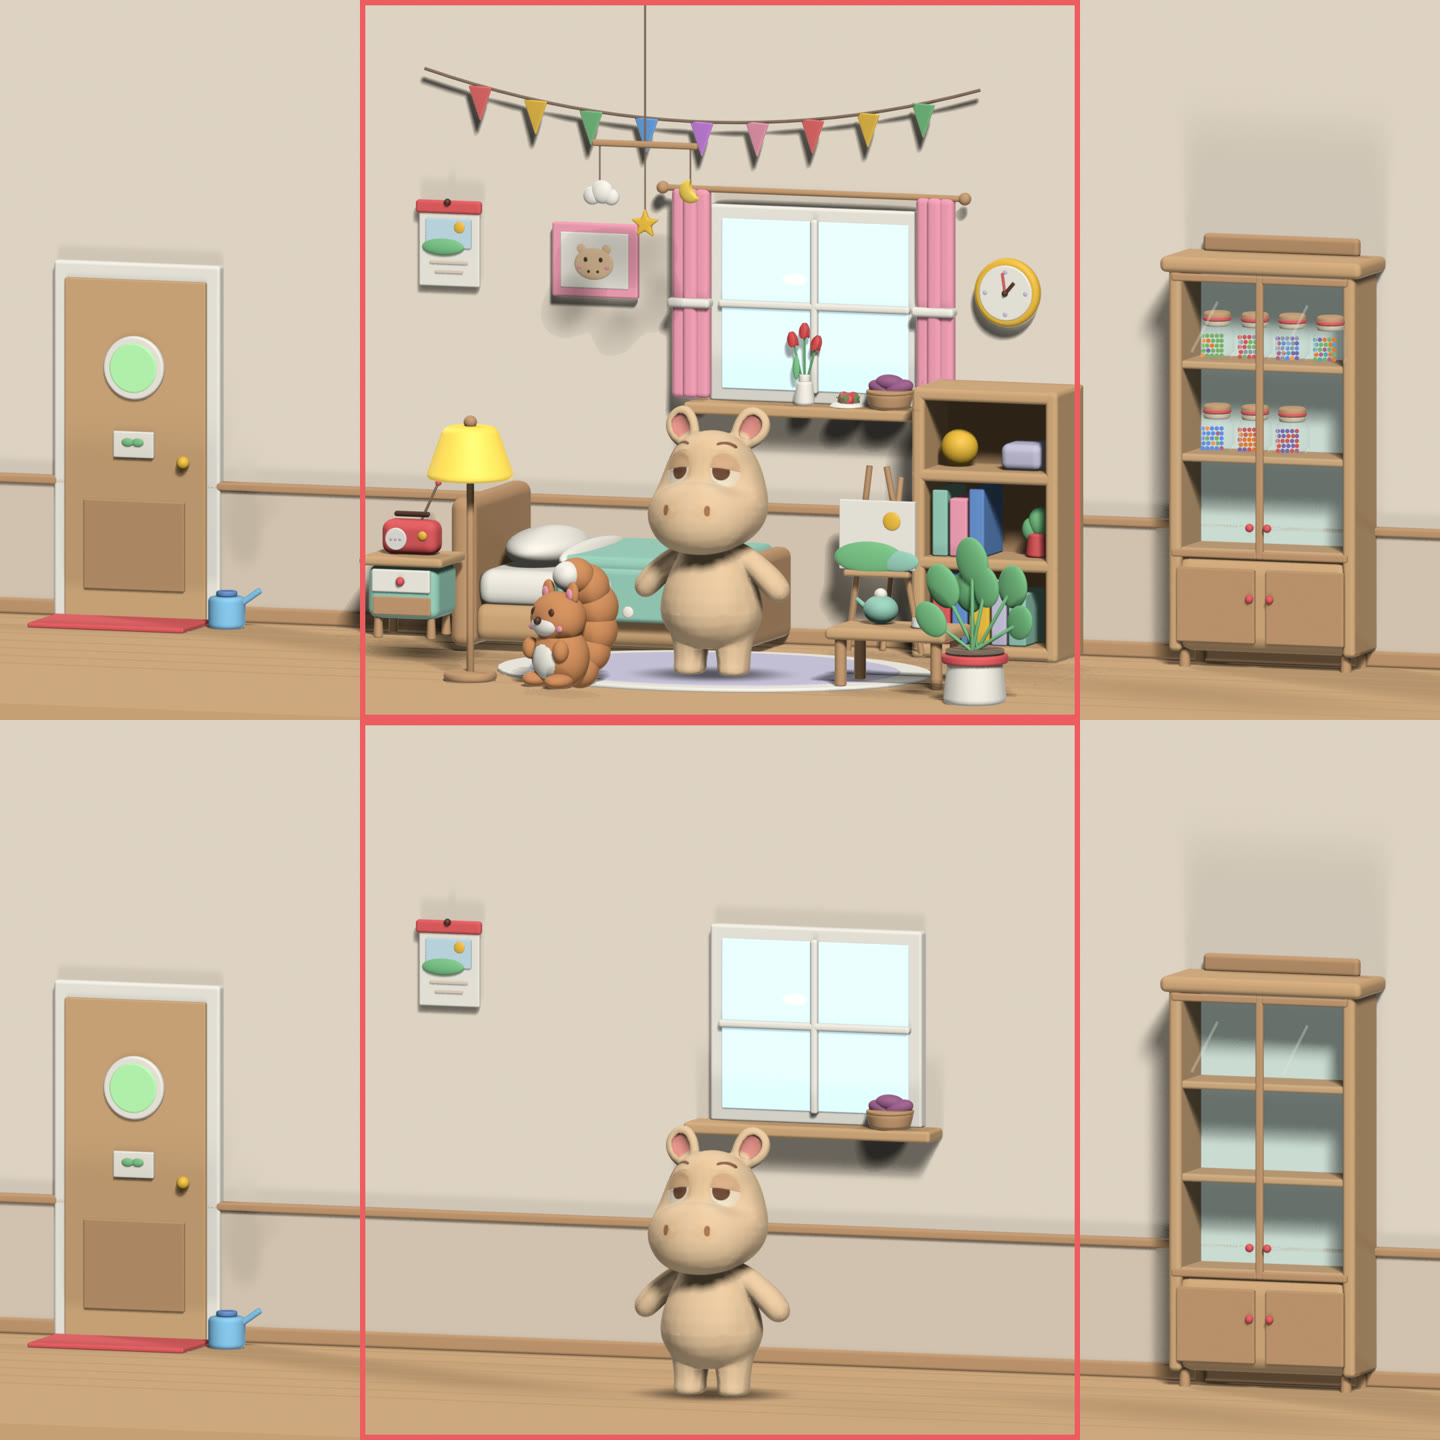
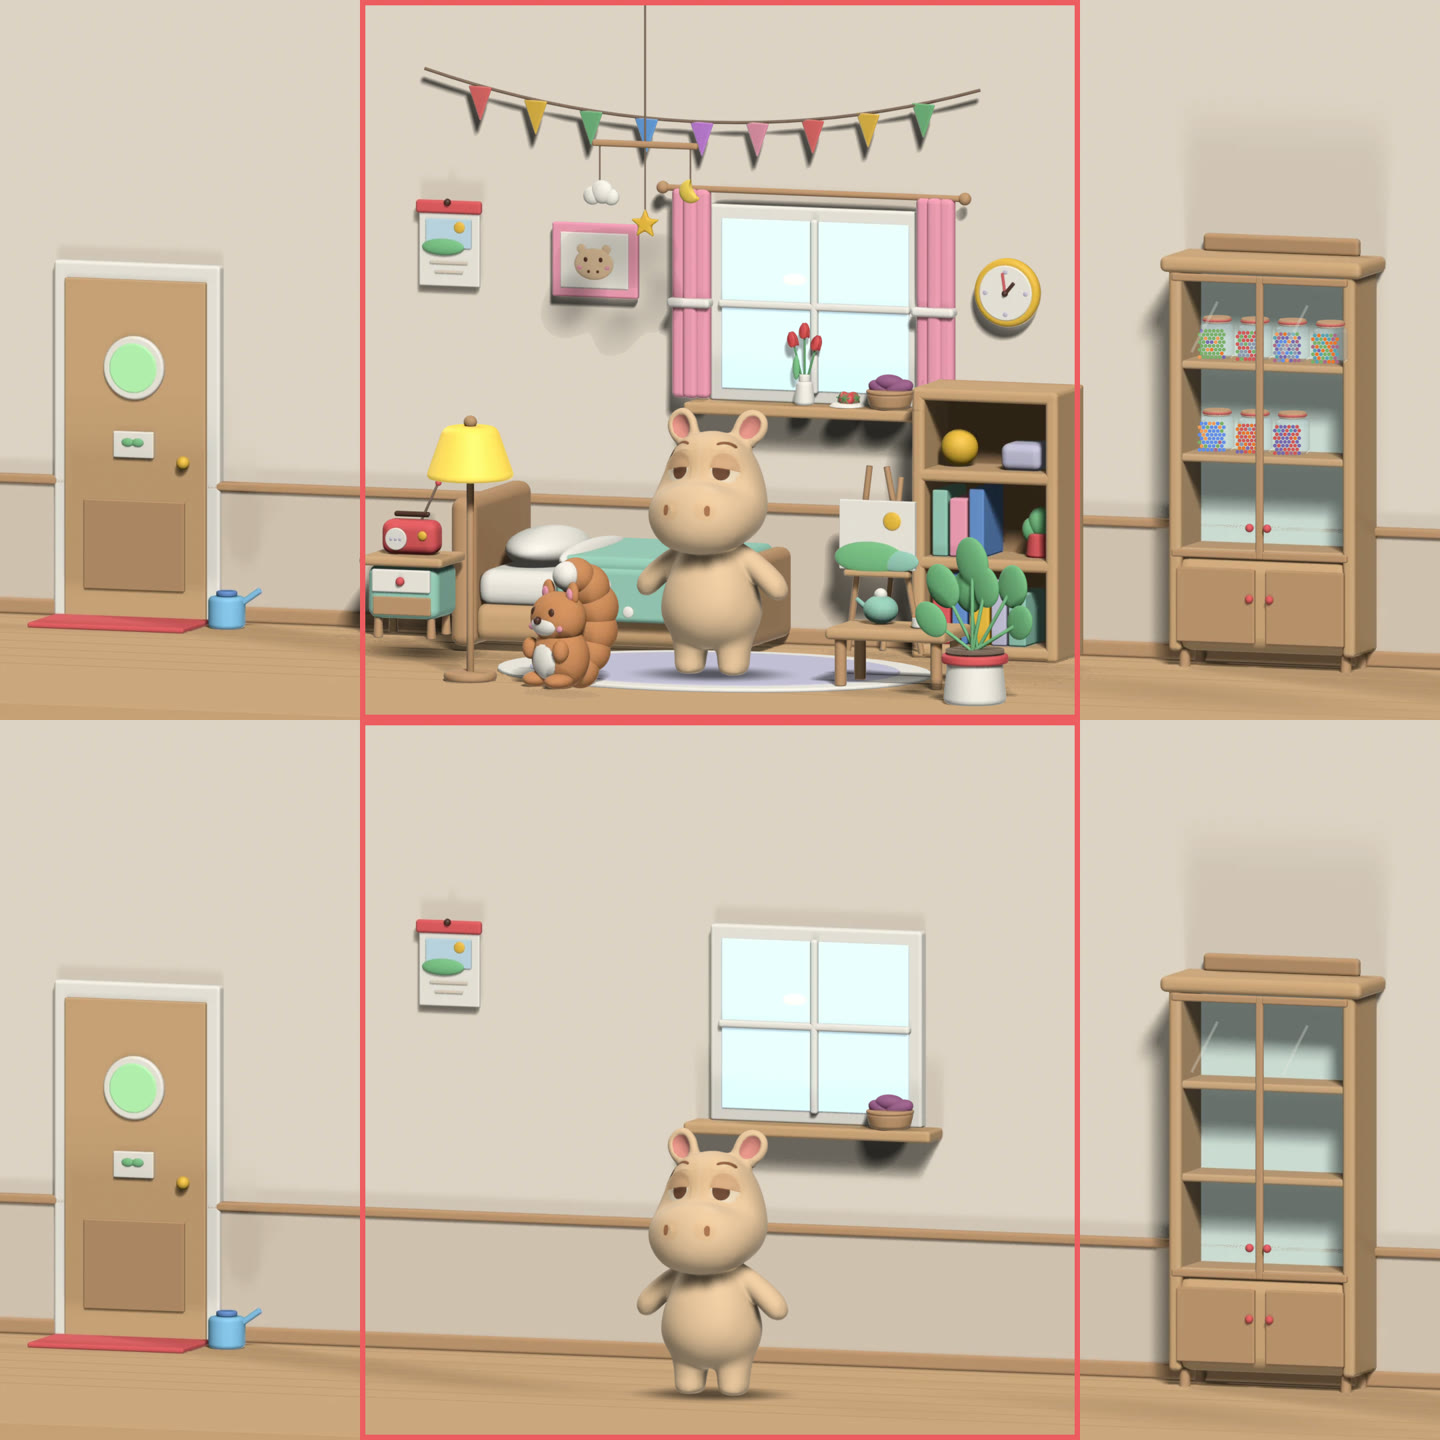
world: room cabinet jars = round jar A (J1): jar layers + slots re-exported, 7x8 marble grid

diff --git a/scripts/blender/room_wide.py b/scripts/blender/room_wide.py
@@ -41,46 +41,49 @@ def glass_mat(name, rgb, alpha):
 
 
 # ------------------------------------------------------------------ jar (닫은 유리병)
-JAR_W, JAR_H = 0.13, 0.175      # outer width, height incl. lid
-
-
-JAR_BODY_H = JAR_H - 0.045
-JAR_INNER = dict(r=JAR_W / 2 * 0.72, z0=0.012, z1=JAR_BODY_H - 0.03)   # where marbles sit (app draws them, R4)
+# 2026-11-13 J1: 유리병 탭 큰 병과 같은 물건 — design/features/jar_redesign/jar_layers.py jar_A 프로필을 축소
+# (r 0.62 / h 1.3 → s = r / 0.62): 바닥 모서리 원호 0.2, 어깨 원호 r*.26 → 목 r*.74, 받침·뚜껑·띠 bevel .45, 둘레 64.
+# 유리 알파 .32(탭과 같게). 코랄 띠만 1.5배 두께 — 방 크기(병 폭 약 50px)에서 띠가 안 보여서
+JAR_W = 0.13
+JAR_S = (JAR_W / 2) / 0.62
+JAR_BODY_H = 1.3 * JAR_S
+JAR_H = 1.505 * JAR_S             # incl. lid (lid top = h + .13 + .075)
+JAR_INNER = dict(r=JAR_W / 2 * 0.86, z0=0.06 * JAR_S, z1=(1.3 - 0.2) * JAR_S)   # marble grid area (jar_A inner), app draws marbles
+MARBLE_GRID = (7, 8)              # same as the jar tab: 50 marbles = 7 x 8 (alternate rows offset), one layer in front
 
 
 def jar(name, loc, seed=0, marbles=True, part="all"):
-    """closed jar. part: all | back (see-through glass body) | front (rim + cork lid + coral band + shine).
-    marbles = category colours (preview only; the app draws real per-jar colours between back and front)"""
+    """closed jar. part: all | back (see-through glass body) | front (rim + cork lid + coral band).
+    marbles = preview only: one front layer 7x8 like the jar tab (the app draws real per-jar colours between back and front)"""
     x, y, z = loc
-    r = JAR_W / 2
-    body_h = JAR_BODY_H
+    r = JAR_W / 2; s = JAR_S; h = JAR_BODY_H
     parts = []
     if part in ("all", "back"):
-        prof = [(0.0, 0.0), (r * 0.82, 0.0), (r, 0.03), (r, body_h - 0.035), (r * 0.78, body_h - 0.01), (r * 0.72, body_h)]
-        g = lathe(name + "Glass", prof, glass_mat("R_jarglass", P["glass"], 0.14))
+        cb, cs = 0.2 * s, r * .26
+        prof = [(0, 0)]
+        prof += [(r - cb + cb * math.sin(math.radians(a)), cb - cb * math.cos(math.radians(a))) for a in range(0, 91, 6)]
+        prof += [(r - cs + cs * math.cos(math.radians(a)), h - .04 * s - cs + cs * math.sin(math.radians(a))) for a in range(0, 91, 6)]
+        prof += [(r * .74, h)]
+        g = lathe(name + "Glass", prof, glass_mat("R_jarglass", P["glass"], 0.32), seg=64)   # same alpha as the jar tab
         g.location = (x, y, z); parts.append(g)
     if part in ("all", "front"):
-        parts += [cyl(name + "Rim", r * 0.78, 0.022, (x, y, z + body_h + 0.004), M("jar_rim", 0.6), bevel=0.35),
-                  cyl(name + "Lid", r * 0.8, 0.035, (x, y, z + body_h + 0.03), M("lid", 0.8), bevel=0.35),
-                  cyl(name + "Band", r * 0.83, 0.014, (x, y, z + body_h + 0.022), M("coral", 0.8), bevel=0.3)]
-        sh = rbox(name + "Shine", (0.008, 0.003, body_h * 0.5), (x - r * 0.55, y - r - 0.004, z + body_h * 0.55), glass_mat("R_jarshine", P["off"], 0.45), r=0.45)
-        parts.append(sh)
+        parts += [cyl(name + "Rim", r * .78, .09 * s, (x, y, z + h + .02 * s), M("jar_rim", .6), bevel=.45, seg=64),
+                  cyl(name + "Lid", r * .82, .15 * s, (x, y, z + h + .13 * s), M("lid", .8), bevel=.45, seg=64),
+                  cyl(name + "Band", r * .85, .09 * s, (x, y, z + h + .09 * s), M("coral", .8), bevel=.45, seg=64)]
     if marbles and part == "all":
         rnd = random.Random(seed)
         w = [rnd.random() ** 5 for _ in CAT_COLS]
-        mr = 0.015
-        k = 0
-        for layer in range(5):
-            zz = z + 0.012 + mr + layer * mr * 1.7
-            ring = r * 0.78 - mr
-            n = 9
+        ir = JAR_INNER; cols, rows = MARBLE_GRID
+        mr = ir["r"] * 2 / cols / 2 * 0.92
+        yf = y - r * 0.9
+        for row in range(rows):
+            off = 0.5 if row % 2 else 0
+            n = cols - 1 if row % 2 else cols
+            zz = z + ir["z0"] + mr + row * (ir["z1"] - ir["z0"] - 2 * mr) / (rows - 1)
             for j in range(n):
-                a = 2 * math.pi * j / n + layer * 0.35
+                xx = x - ir["r"] + mr + (j + off) * (ir["r"] * 2 - 2 * mr) / (cols - 1)
                 c = rnd.choices(range(len(CAT_COLS)), w)[0]
-                parts.append(sph(f"{name}M{k}", mr, (x + ring * math.cos(a), y + ring * math.sin(a), zz), M(f"cat{c}", 0.45), seg=12))
-                k += 1
-            c = rnd.choices(range(len(CAT_COLS)), w)[0]
-            parts.append(sph(f"{name}M{k}", mr, (x, y, zz), M(f"cat{c}", 0.45), seg=12)); k += 1
+                parts.append(sph(f"{name}M{row}_{j}", mr, (xx, yf, zz), M(f"cat{c}", 0.35), seg=12))
     return parts
 
 

diff --git a/scripts/blender/compose_room_wide_preview.py b/scripts/blender/compose_room_wide_preview.py
@@ -47,14 +47,14 @@ jb, jf = load(os.path.join(D, jc["jar_back"]["file"])), load(os.path.join(D, jc[
 for k, s in enumerate(jc["slots"][:N]):
     over(canvas, jb, *s["back"])
     rnd = random.Random(k + 3); w = [rnd.random() ** 5 for _ in CATS]
-    mx, my, mw, mh = s["marbles"]; rad = 3.2
-    cols_n = max(1, int(mw // (rad * 2.1)))
-    rows_n = max(1, int(mh // (rad * 1.9)))
-    for row in range(rows_n):            # fill bottom-up (a full jar = 50 marbles -> all cells)
-        for col in range(cols_n):
-            cx = mx + rad + col * (mw - 2 * rad) / max(1, cols_n - 1) + (rad * 0.5 if row % 2 else 0)
-            cy = my + mh - rad - row * (mh - 2 * rad) / max(1, rows_n - 1)
-            disc(canvas, min(cx, mx + mw - rad), cy, rad, srgb_lin(rnd.choices(CATS, w)[0]))
+    mx, my, mw, mh = s["marbles"]; cols, rows = 7, 8          # same grid as the jar tab (50 = full closed jar)
+    rad = mw / cols / 2 * 0.92
+    for row in range(rows):              # bottom-up, alternate rows offset by half
+        n = cols - 1 if row % 2 else cols
+        for col in range(n):
+            cx = mx + rad + (col + (0.5 if row % 2 else 0)) * (mw - 2 * rad) / (cols - 1)
+            cy = my + mh - rad - row * (mh - 2 * rad) / (rows - 1)
+            disc(canvas, cx, cy, rad, srgb_lin(rnd.choices(CATS, w)[0]))
     over(canvas, jf, *s["front"])
 g = jc["glass"]; over(canvas, load(os.path.join(D, g["file"])), g["x"], g["y"])
 owned = set() if EMPTY else {"bed", "bookshelf", "squirrel", "lamp", "frame", "wall_clock", "garland", "mobile", "curtain", "rug",

diff --git a/docs/STATUS.md b/docs/STATUS.md
@@ -69,11 +69,12 @@
 - 2026-11-13 (앱 UI, 대표 결정): 앱 화면을 시안 'A 포근한 창'으로 교체 — 크림 바탕·민트 포인트, 둥글기 카드/알약 2계열, 테두리 없이 면 색 구분, 이모지 → 선 아이콘, 떠 있는 알약 탭 바, 그림 위 크림 판, 아래 시트. 기준은 ART_BIBLE 11장. 그림·문구·기능은 그대로. 글꼴(Gowun Dodum 도입 여부) 대표 확인 대기
 
 - 2026-11-13 (해외 출시→전체, 대표 결정): 해외 첫 시장 일본(대만은 그다음), 가입 나이 국가별(한국 14세 / 일본 【13】세 이상 + 18세 미만 보호자 동의 — 하한 대표 확인 대기). 일본판 처리방침·약관 초안 `docs/legal/ja/`, 체크리스트 LAUNCH.md 8장. 자해 감지는 유지 전제(S1 미정, 추천 유지). 개발 스레드: 국가별 분기는 한국 출시 뒤 — 지금 할 일 없음
+- 2026-11-13 (해외 출시→개발·전체, 대표 결정 "다 추천대로"): 처리방침·약관 4종을 Fable 검토 반영해 수정. J1 일본 가입 16세 이상 + 생년 입력(13세 제안 철회), J2 `safety_shown` 이벤트 삭제, J3 Supabase = 위탁 + 일본 28조 동의 대상(미국 지원팀 접근·EU 로그도 이전 국가로 기재, 한국판도), J4 민감정보 별도 필수 동의(한국·일본), L4 한국 환불 = 7일 체험 근거로 결제 후 청약철회 제한 + 해지하면 다음 결제부터 미청구 + 운영자 접수·Apple 환불 신청 지원, 접속 기록 3개월 문구 삭제 → 실제 보관 기간(Supabase 무료 1일·Pro 7일). 결제는 한국·일본 모두 Apple 인앱 유지(웹 결제는 매출 100만 달러 넘으면 재검토). **개발 스레드 할 일(한국 출시 전, LAUNCH 2·4장)**: ① `RoomPage.tsx` `track('safety_shown')` 삭제 + `app_events`의 기존 `safety_shown` 행 삭제 마이그레이션 ② 동의 화면에 민감정보 별도 필수 항목 + 약관·처리방침 링크 + "OpenAI(미국)" 표기 ③ 구독 화면에 청약철회 제한·자동 갱신·해지 방법 표시. 일본 전용(생년 입력·28조 동의 화면)은 한국 출시 뒤
 - 2026-11-13 (기능→개발, 대표 결정): **기록 다시 보기 C9** — 방 '오늘의 쪽지', 크게 보기 시트(동작 자동 재생, 메모 한 줄, ☆), 분류/☆ 목록 화면, 하루 한 장, (출시 후) 한 달 전 오늘·한 달 카드, 유리병 맨 위 카드 자리 1개. 서버에 wins 메모·☆ 칸 필요. 상세 FEATURES C9, 시안 design/features/records_mock/. N5도 확정: 구슬 꾹 눌러 쓸어 보기 + 말풍선 + 진동 + "목록으로 보기" 링크 + 처음 안내. **개발 스레드 차례** (M1~M3·N1~N5 출시 전, M4 출시 후) → 2026-11-13 **앱 구현 완료(M1~M3·N1~N5)**, 아래 작업 로그. 대표 확인 대기: 폰에서 구슬 쓸어 보기 진동·키보드 위 시트
 - 2026-11-13 (앱→공간·기능, 대표 결정): **창턱 수확 장식은 영구가 아님** — 수확 바구니에 남아 있는 동안만 보이고, 먹이거나 선물해서 다 쓰면 사라짐(다시 수확하면 다시 생김). 예전 '처음 수확하면 영구' 규칙(WORLD 98·100행) 폐기. 잃는 장치 금지 원칙과 부딪힌다는 점은 알렸고 대표가 결정. 앱 반영 완료(방 창턱·꽃병 바꿔 끼우기·바구니/텃밭/마당 문구). WORLD.md 수확 장식 절·FEATURES 7장 수확물 줄도 대표 지시로 앱 스레드가 반영 완료
 - 2026-11-13 (앱 바탕색, 대표 결정): 바탕을 크림 → 순백 #FFFFFF로 변경(카드 #F7F6F3, 옅은 면 #F2F0EB). 색은 ui/theme.ts(C·ART)에만 두고 화면 코드에 직접 쓰지 않는다 — eslint가 오류로 잡음. 새 기능도 이 토큰으로 개발 (ART_BIBLE 11장)
 
-- 2026-11-13 (기능→공간·개발, 대표 결정): **유리병 탭 병 그림 J1 = (A) 둥근 방 유리장 병** — 병 껍데기만 3D(A_back/A_front.png) + 구슬은 앱이 3D 구슬 그림(marble_0~7.png)을 한 겹으로(50개 = 7×8, 지름 약 31pt, 숨는 구슬 없음 → N5 쓸어 보기). 상세 FEATURES C9 J1, 시안 design/features/jar_redesign/. **공간 스레드 할 일**: 방 유리장 작은 병(room_wide.py jar)을 같은 둥근 모양(바닥 모서리·어깨 원호, jar_layers.py jar_A 프로필)으로 다시 렌더·export (WORLD.md 요청). **개발 스레드**: C9와 함께 MarbleJar 교체
+- 2026-11-13 (기능→공간·개발, 대표 결정): **유리병 탭 병 그림 J1 = (A) 둥근 방 유리장 병** — 병 껍데기만 3D(A_back/A_front.png) + 구슬은 앱이 3D 구슬 그림(marble_0~7.png)을 한 겹으로(50개 = 7×8, 지름 약 31pt, 숨는 구슬 없음 → N5 쓸어 보기). 상세 FEATURES C9 J1, 시안 design/features/jar_redesign/. **공간 스레드: 방 유리장 병 둥근 모양 다시 렌더 완료(2026-11-13)** — jar_back/jar_front.webp + manifest jar_cabinet slots 좌표 바뀜, 방 병 구슬도 7×8 한 겹(WORLD 요청 절). **개발 스레드**: C9와 함께 MarbleJar 교체
 ## 남은 일
 - [ ] 대표 피드백 반영 (동물 종류, 톤, 화면)
 - [ ] 최종 캐릭터/아트 방향 (AI 생성 vs 외주 vs 무료 에셋)

diff --git a/docs/WORLD.md b/docs/WORLD.md
@@ -276,10 +276,11 @@
 - (결정됨) Y1~Y5 → 위 확정 규칙. 소품·가격은 2장, 계산은 3장
 
 
-### 기능 스레드 요청: 방 유리장 병을 둥근 모양으로 (2026-11-13 대표 결정 J1)
-- 유리병 탭의 큰 병을 '둥근 방 유리장 병'(design/features/jar_redesign/A_back.png·A_front.png, jar_layers.py `jar_A`)으로 바꾸기로 함. 방 유리장의 닫힌 병과 같은 물건이어야 하므로 room_wide.py `jar()` 프로필도 같게: 바닥 모서리 원호(병 반지름의 약 1/3), 어깨 원호(뚜껑 목 r*0.74까지), 뚜껑·받침·띠 bevel 0.45, 둘레 분할 64.
-- 다시 렌더할 것: room/jar_back.webp, room/jar_front.webp (+ manifest jar_cabinet 크기·좌표가 바뀌면 갱신). 구슬 칸(slots.marbles) 위치가 바뀌면 앱 개발 스레드에 알리기.
-- 앱이 할 일(개발 스레드): 새 export가 오면 그대로 읽음. 공간 스레드 렌더 전까지 방은 지금 병 그대로.
+### 기능 스레드 요청: 방 유리장 병을 둥근 모양으로 (2026-11-13 대표 결정 J1) — **완료 2026-11-13 (공간 스레드)**
+- room_wide.py `jar()` = jar_layers.py `jar_A` 프로필을 그대로 축소(병 폭 0.13, s = r/0.62): 바닥 모서리·어깨 원호, 목 r*.74, 받침·코르크 뚜껑·코랄 띠 bevel .45, 둘레 64, 유리 알파 .32(탭과 같음). 반짝 줄 없앰. 코랄 띠만 1.5배 두께(방 크기에서 안 보여서)
+- 다시 뽑음: room/jar_back.webp(58×62), room/jar_front.webp(50×20, 뚜껑만) + manifest `jar_cabinet` slots 좌표 갱신 (back·front·marbles·tap 모두 바뀜 — 앱은 manifest 값만 읽으면 됨). 비교 그림 design/world/room/wide/jar_room_vs_tab.jpg
+- 방 병 속 구슬도 유리병 탭과 같은 배치: 한 겹 7×8(홀짝 줄 엇갈림, 아래부터), 닫은 병 = 50개 = 꽉 참. `marbles` 사각형 42×45px(캔버스 기준)이라 구슬 하나 약 6px — marble_N 그림을 줄여 쓰거나 분류 색 점
+
 
 ## 열린 질문
 - 낮/밤 배경: 마당은 Y4로 실제 시간 반영(7장). 방·텃밭 밤 버전은 출시 후 검토(마당과 같은 방식: 밤 배경 1장 + 덮개)
